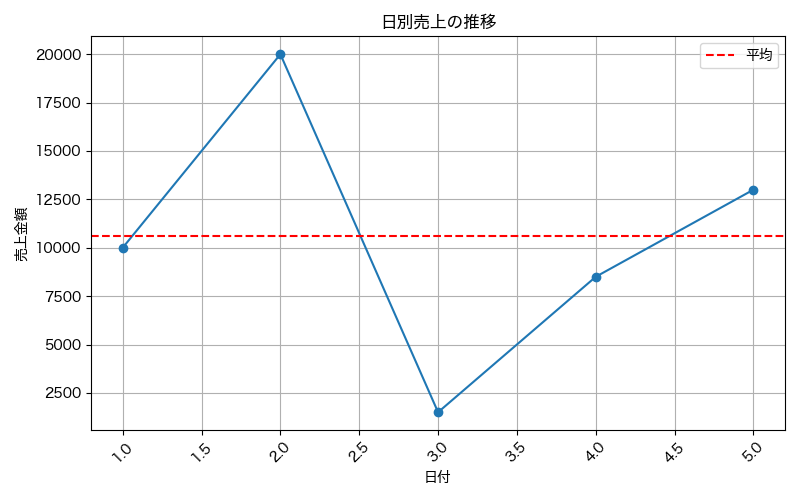
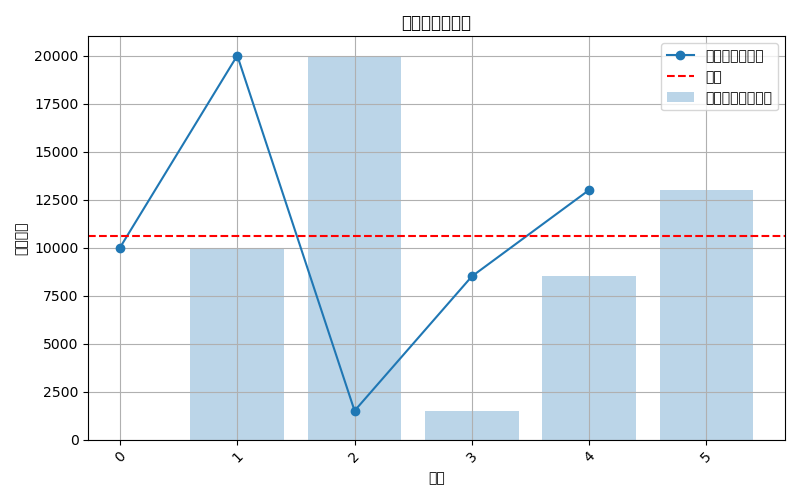
売上データ可視化（折れ線＋棒グラフ＋平均線追加）、合計・平均を計算する機能を実装

diff --git a/sales_total.py b/sales_total.py
@@ -1,72 +1,38 @@
 import pandas as pd
+import matplotlib.pyplot as plt
 
-# CSVを読み込む
-data = pd.read_csv("sales_data.csv")
+# CSVを読み込み
+df = pd.read_csv("sales_data.csv")
 
-# 列名と先頭を確認
-print(data.head())             # データの先頭5行
-print(data.columns.tolist())   # 列名リスト
+# 日別売上データ
+daily_sales = df['sales']
 
+# グラフ描画
+plt.figure(figsize=(8, 5))
+plt.plot(daily_sales.index, daily_sales.values, marker="o", label="売上（折れ線）")
+plt.bar(df['day'], df['sales'], alpha=0.3, label="売上（棒グラフ）")
 
-# --- この下から分析処理を書いてOK ---
-daily_sales = data.groupby("day")["sales"].sum()
-print(daily_sales)
-
-
-# CSVを読み込む
-data = pd.read_csv("sales_data.csv")
-
-# データ確認
-print(data.head())            # 先頭5行
-print(data.columns.tolist())  # 列名リスト
-
-
-
-def extract_high_sales(input_file, output_file, threshold=10000):
-    # CSV読み込み
-    df = pd.read_csv(input_file)
-
-    # 条件でフィルタリング
-    high_sales = df[df['sales'] >= threshold]
-
-    # CSV保存
-    high_sales.to_csv(output_file, index=False)
-
-    print(f"売上{threshold}以上のデータを {output_file} に保存しました。")
-
-
-
-# 実行例
-if __name__ == "__main__":
-
-    extract_high_sales("sales_data.csv", "high_sales.csv", threshold=20000)
-if __name__ == "__main__":
-    # 高売上データを抽出
-    extract_high_sales("sales_data.csv", "high_sales.csv", 50000)
-
-    # グラフ描画
-    import pandas as pd
-    import matplotlib.pyplot as plt
-    import matplotlib
-    matplotlib.rcParams['font.family'] = 'Hiragino Sans' # Macの場合
-
-    daily_sales = data.groupby("day")["sales"].sum()
-
-
-    plt.figure(figsize=(8,5))
-    plt.plot(daily_sales.index, daily_sales.values, marker="o")
-
-# 平均線を描画（直接 daily_sales.mean() を使う）
+# 平均線を追加
 plt.axhline(y=daily_sales.mean(), color="red", linestyle="--", label="平均")
-plt.legend()
 
 plt.title("日別売上の推移")
 plt.xlabel("日付")
 plt.ylabel("売上金額")
 plt.xticks(rotation=45)
 plt.grid(True)
+plt.legend()
 plt.tight_layout()
 plt.savefig("sales_line_chart.png")
 plt.show()
 
+# 高売上ランキング（TOP5）を抽出して保存
+top_sales = df.sort_values(by="sales", ascending=False).head(5)
+top_sales.to_csv("top_sales.csv", index=False)
+print("高売上ランキングを top_sales.csv に保存しました！")
 
+# 合計と平均を計算して表示
+total_sales = df['sales'].sum()
+mean_sales = df['sales'].mean()
+
+print(f"売上合計: {total_sales}")
+print(f"売上平均: {mean_sales:.2f}")
